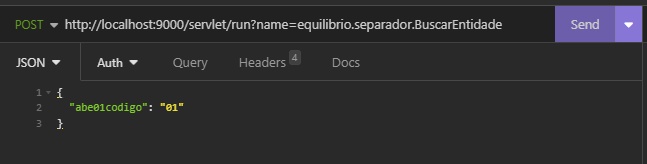
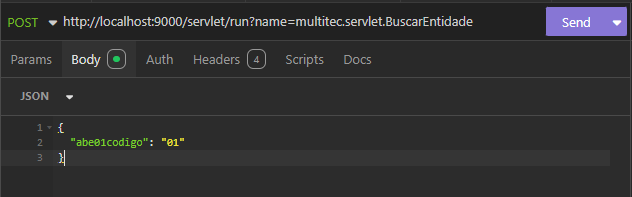
renomear arquivo

diff --git a/docs/exemplos/servlet.md b/docs/exemplos/servlet.md
@@ -92,7 +92,7 @@ Realizando uma request para o servlet usando um programa externo como o Insomnia
 
 === "Script"
     ``` java
-    public class ScriptAntigo extends ScriptBase {
+    public class Script extends ScriptBase {
         MultitecRootPanel tarefa
         @Override
         void execute(MultitecRootPanel panel) {
@@ -101,15 +101,14 @@ Realizando uma request para o servlet usando um programa externo como o Insomnia
         }
 
         private void buscarEntidade(){
-            String json = '{"abe01codigo": "01"}'
-            ObjectMapper mapper = new ObjectMapper();
-            JsonNode body = mapper.readTree(json);
+            TableMap body = new TableMap()
+            body.put("abe01codigo","01")
             WorkerRequest.create(this.tarefa.getWindow())
             .initialText("Buscando Entidade")
             .dialogVisible(true)
             .controllerEndPoint("servlet")
             .methodEndPoint("run")
-            .param("name", "equilibrio.separador.BuscarEntidade")
+            .param("name", "multitec.servlet.BuscarEntidade")
             .header("ignore-body-decrypt", "true")
             .parseBody(body)
             .success((response) -> {
